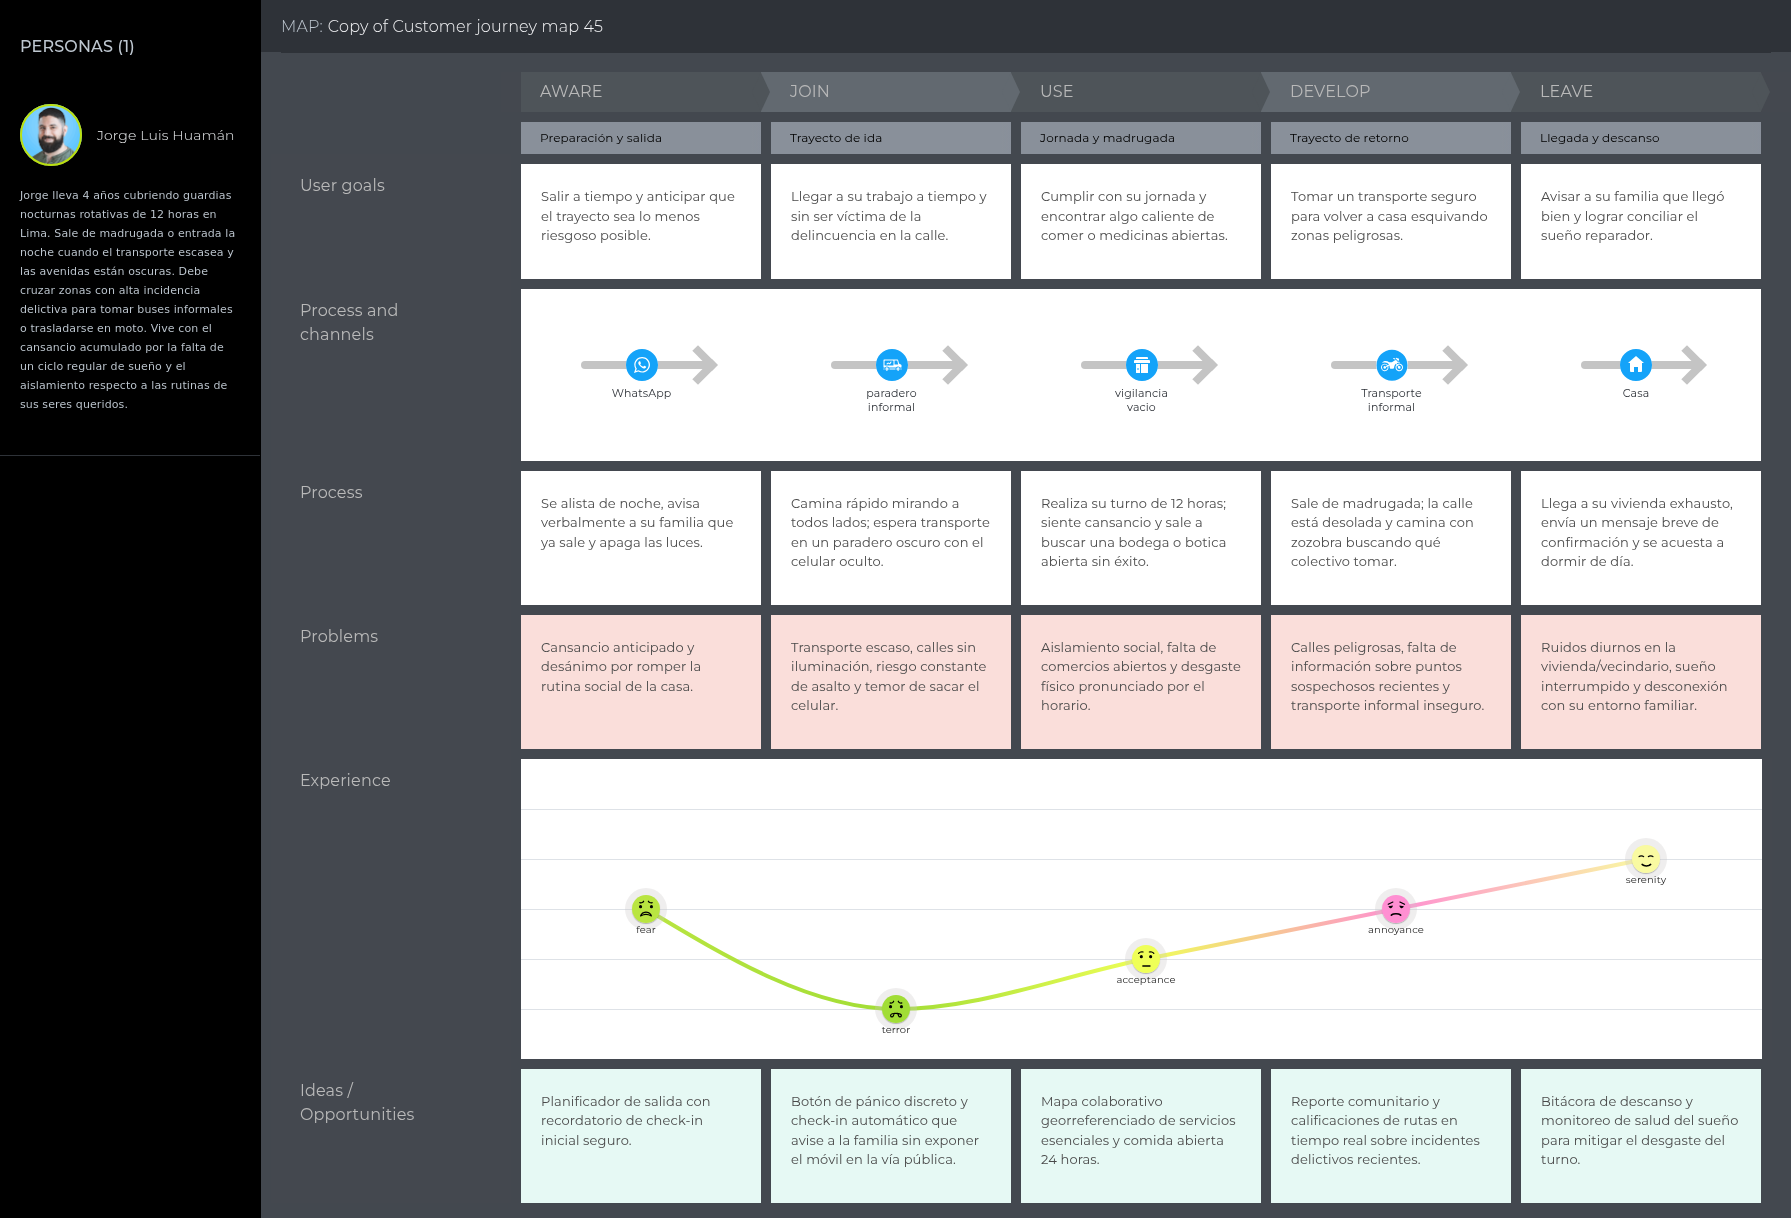
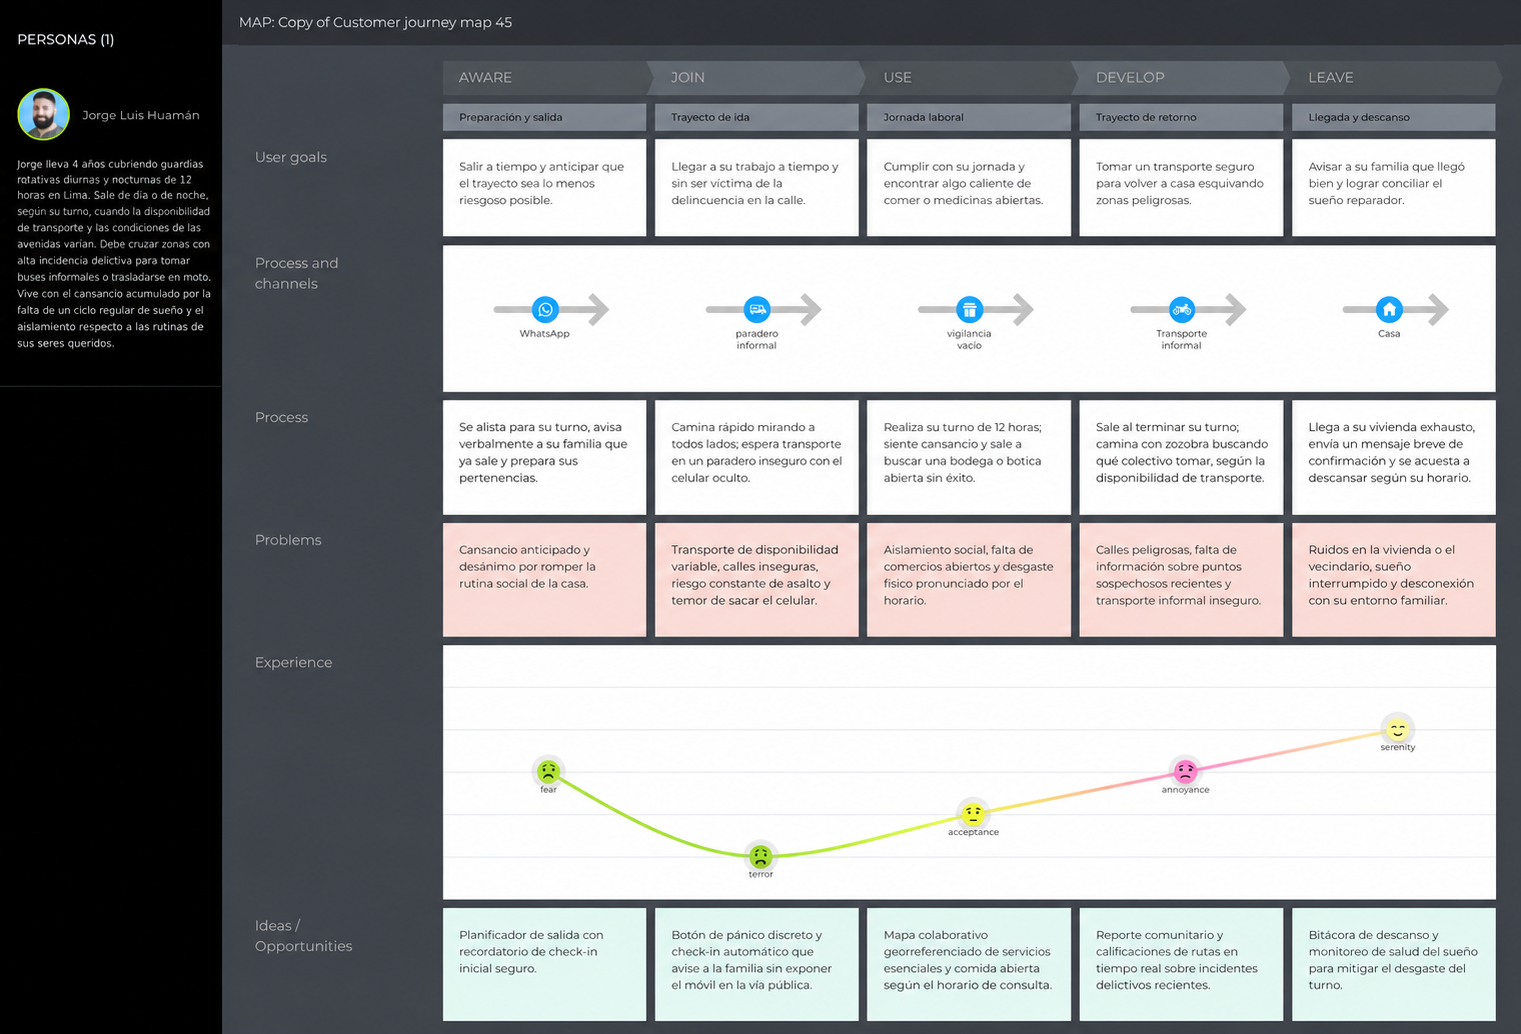
docs(journeys): adapt worker and trusted contact maps to both shifts

diff --git a/README.md b/README.md
@@ -110,10 +110,10 @@ Se organizaron los aportes del equipo mediante ramas de funcionalidades y Pull R
       - [Segmento Objetivo 2: Contacto de Confianza](#segmento-objetivo-2-contacto-de-confianza)
     - [2.3.2. User Task Matrix.](#232-user-task-matrix)
     - [2.3.3. User Journey Mapping.](#233-user-journey-mapping)
-      - [Segmento Objetivo 1: Trabajador de Turno Nocturno](#segmento-objetivo-1-trabajador-de-turno-nocturno)
+      - [Segmento Objetivo 1: Trabajador de Turno Diurno o Nocturno](#segmento-objetivo-1-trabajador-de-turno-diurno-o-nocturno-1)
       - [Segmento Objetivo 2: Contacto de Confianza](#segmento-objetivo-2-contacto-de-confianza-1)
     - [2.3.4. Empathy Mapping.](#234-empathy-mapping)
-      - [Segmento Objetivo 1: Trabajador de Turno Nocturno](#segmento-objetivo-1-trabajador-de-turno-nocturno-1)
+      - [Segmento Objetivo 1: Trabajador de Turno Nocturno](#segmento-objetivo-1-trabajador-de-turno-nocturno)
       - [Segmento Objetivo 2: Contacto de Confianza](#segmento-objetivo-2-contacto-de-confianza-2)
   - [2.4. Big Picture EventStorming.](#24-big-picture-eventstorming)
   - [2.5. Ubiquitous Language.](#25-ubiquitous-language)
@@ -729,9 +729,9 @@ Las tareas fueron identificadas a partir del análisis cualitativo de entrevista
 | Acceder a beneficios grupales y coberturas de seguro mediante membresía | Baja | Media | Baja | Baja |
 
 ### 2.3.3. User Journey Mapping. 
-En esta sección se presentan los mapas de viaje de usuario, reflejando la experiencia integral de nuestros segmentos objetivos en el contexto actual: un entorno urbano carente de herramientas digitales especializadas para la dinámica del trabajo nocturno. Se analizan los puntos de fricción, canales y emociones que experimentan tanto el trabajador nocturno durante sus trayectos y jornadas, como su contacto de confianza desde el hogar.
+En esta sección se presentan los mapas de viaje de usuario, reflejando la experiencia integral de nuestros segmentos objetivos en el contexto actual: un entorno urbano carente de herramientas digitales especializadas para la dinámica del trabajo en turnos diurnos y nocturnos. Se analizan los puntos de fricción, canales y emociones que experimentan tanto el trabajador de turno diurno o nocturno durante sus trayectos y jornadas, como su contacto de confianza desde el hogar.
 
-#### Segmento Objetivo 1: Trabajador de Turno Nocturno
+#### Segmento Objetivo 1: Trabajador de Turno Diurno o Nocturno
 
 ![User Journey Map - Jorge Luis Huamán](resources/imgs/jm-Jorge%20Luis%20Huaman.png)
 
